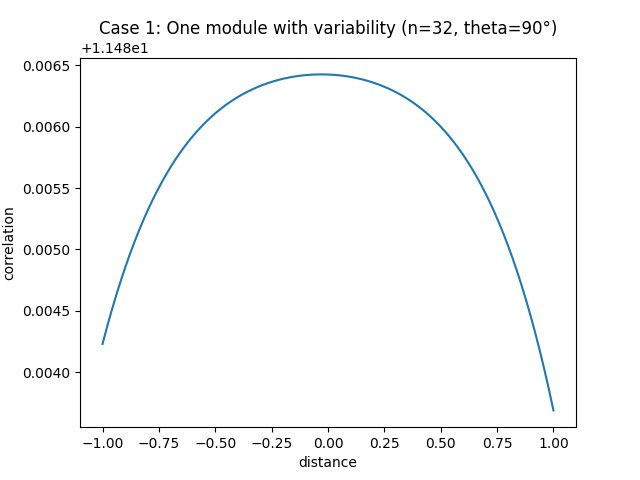
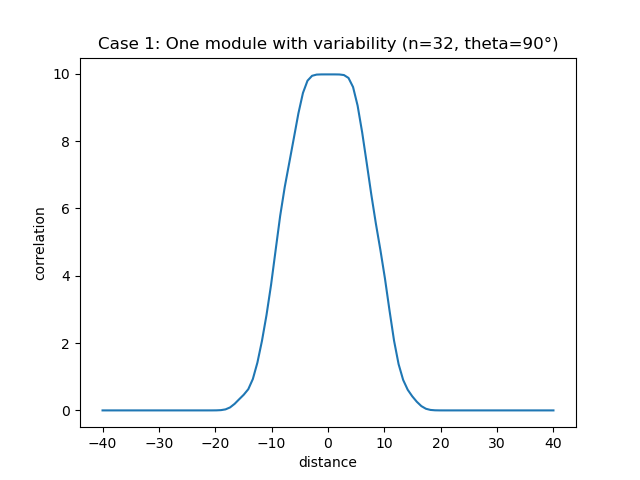
Updated plot_simultion (Aarush) and Simulation (Pritipriya), now both plots match

diff --git a/py/Simulation.py b/py/Simulation.py
@@ -15,7 +15,7 @@ oriStd = 10                         # Std for sampling grid orientation
 gridSpacing = 1                     # Mean spacing of grid cells (in meters)    
 spacingStd = 0.2                    # Std for sampling grid spacing
 arenaSize = 1                       # Size of arena (in meters)       
-nNeurons = 2                        # Sizes of populations of grid cells to be tested
+nNeurons = 32                        # Sizes of populations of grid cells to be tested
 # nSamples = 2                      # Number of independent populations to test per size
 # nDecoding = 10                    # Number of random spiking vectors to draw per position
 # gridFiring_max_mean = 13          # Mean max firing rate for idealized model
@@ -31,17 +31,19 @@ params = list(zip(spacings, phases, orientations))
 Xs, Ys = [], []
 for param in params:
     X,Y = Lattice(*param, N=10)
-    plt.scatter(X, Y)
-    plt.title("The distributed lattice points")
+    # plt.scatter(X, Y)
+    # plt.title("The distributed lattice points")
     Xs.append(X) 
     Ys.append(Y)
-plt.show()
+# plt.clf()
+# plt.show()
 # Xs = np.stack(Xs)
 # Ys = np.stack(Ys)
 # x = np.array([0,1])
 # print(GaussLattice(x,x,Xs,Ys))
 
 def corralong_dir(t=0):
+    
     r = np.linspace(-R,R,num_points)
     theta = np.radians(t)
     x = r*np.cos(theta)
@@ -52,9 +54,13 @@ def corralong_dir(t=0):
     corr_activity = np.sqrt(activity@activity_init/nNeurons)
     # print((activity@activity_init).shape)
     plt.plot(r,corr_activity )
-    plt.title(f"Correlation along theta = {t} deg direction")
+    plt.title(r"Correlation along $\theta$ = " +f"{t} , n = {nNeurons}")
     plt.xlabel("Distance")
     plt.ylabel("Correlation")
-    plt.show()
+    plt.ylim((0,10))
+    plt.savefig(f"Results/plot_cases2/n{nNeurons}_theta{t}.png")
+    plt.close()
 
-corralong_dir(45)
+angles = list(10*i for i in range(0,18))
+for angle in angles:
+    corralong_dir(angle)

diff --git a/py/plot_simulations.py b/py/plot_simulations.py
@@ -3,7 +3,7 @@ import numpy as np
 from Core import Lattice, GaussLattice
 
 ARENA_SIZE = 1 # size of arena (in meters)
-R = 1 # maximum distance for correlation 
+R = 40 # maximum distance for correlation 
 N_POINTS = 100 # number of points along the line
 NEURON_COUNTS = [16, 32, 64] # different numbers of grid cells to simulate
 M = 4 # number of modules for case 3
